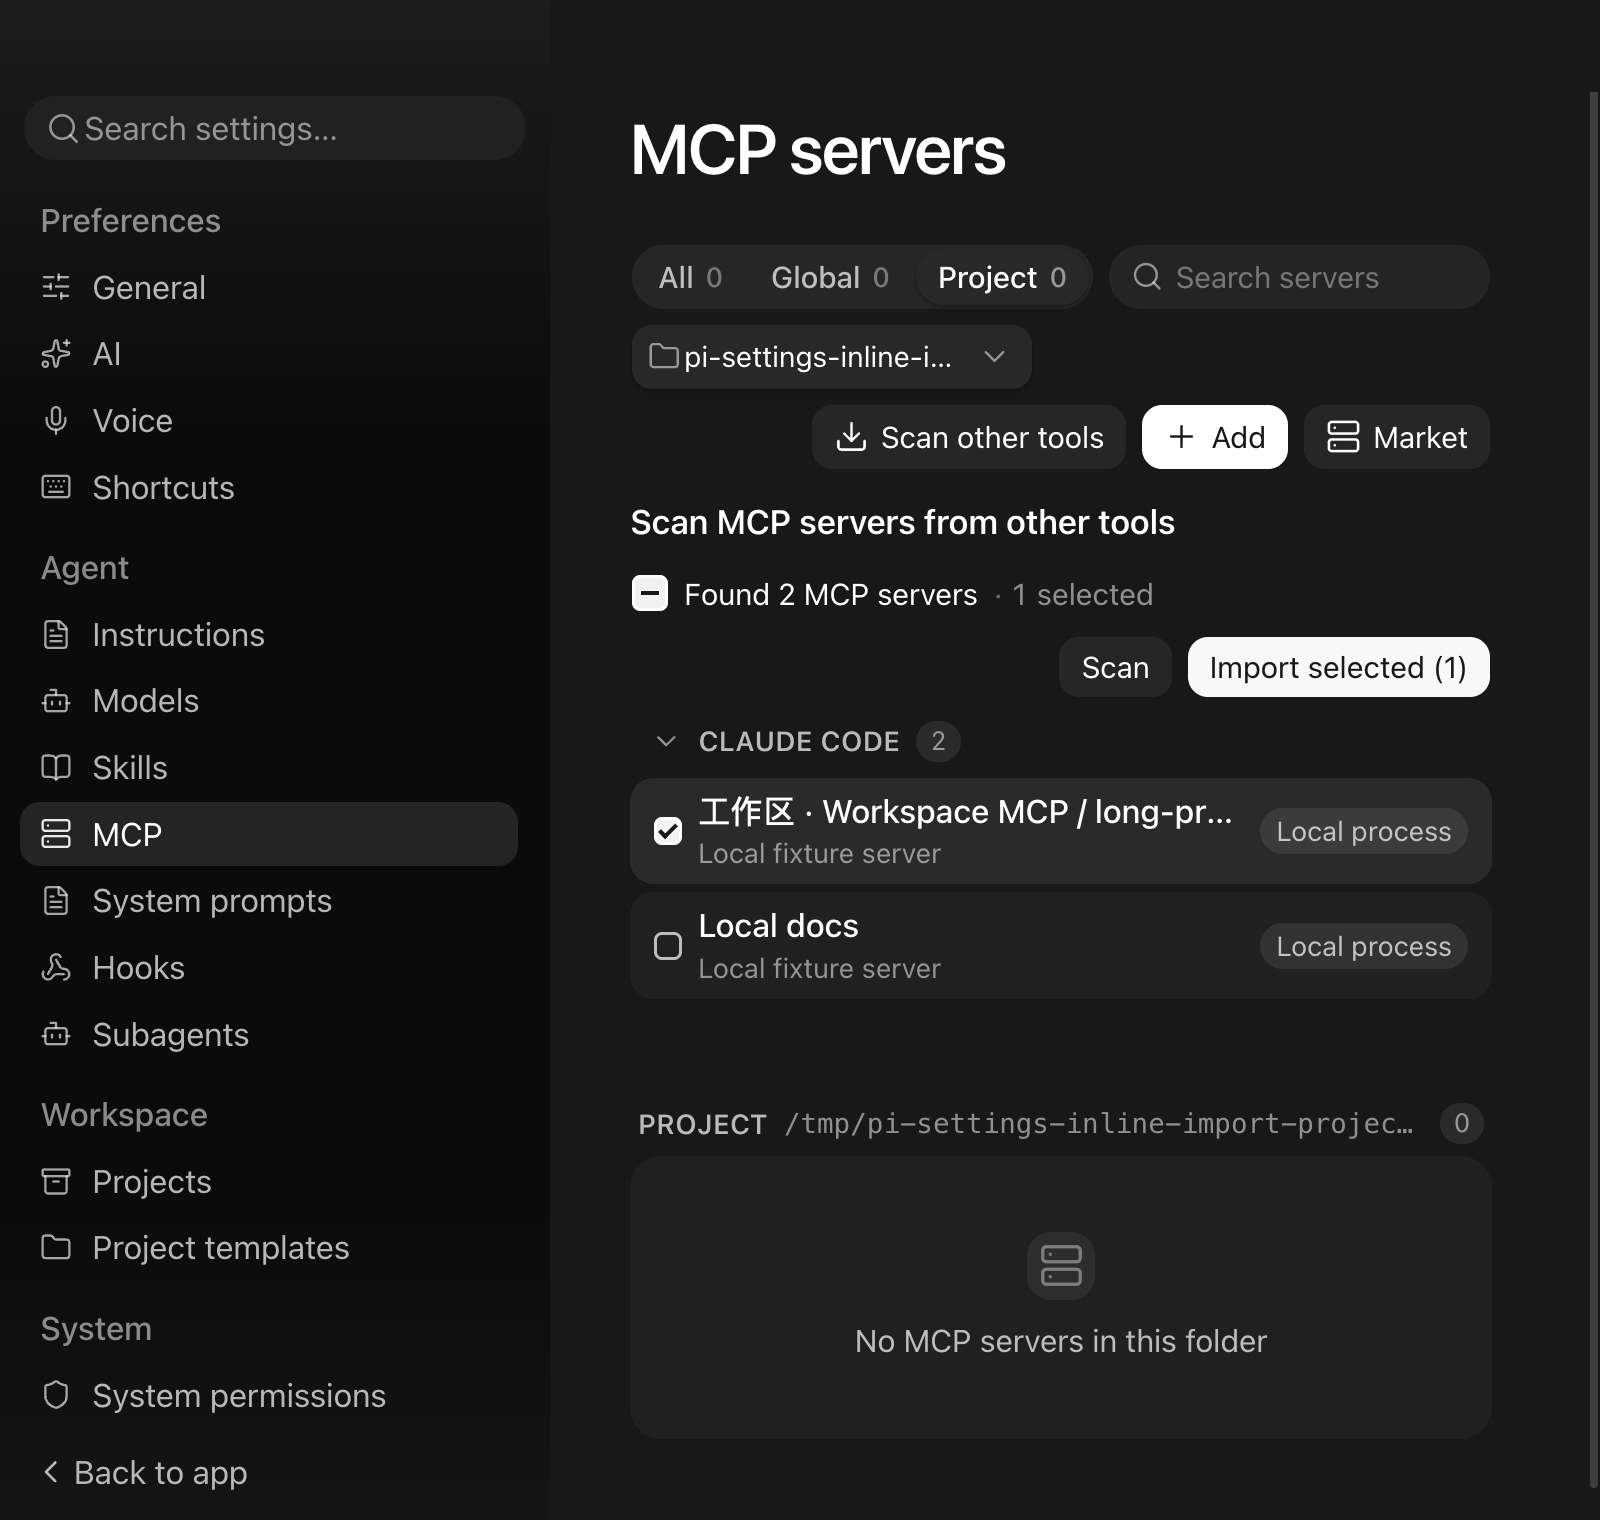
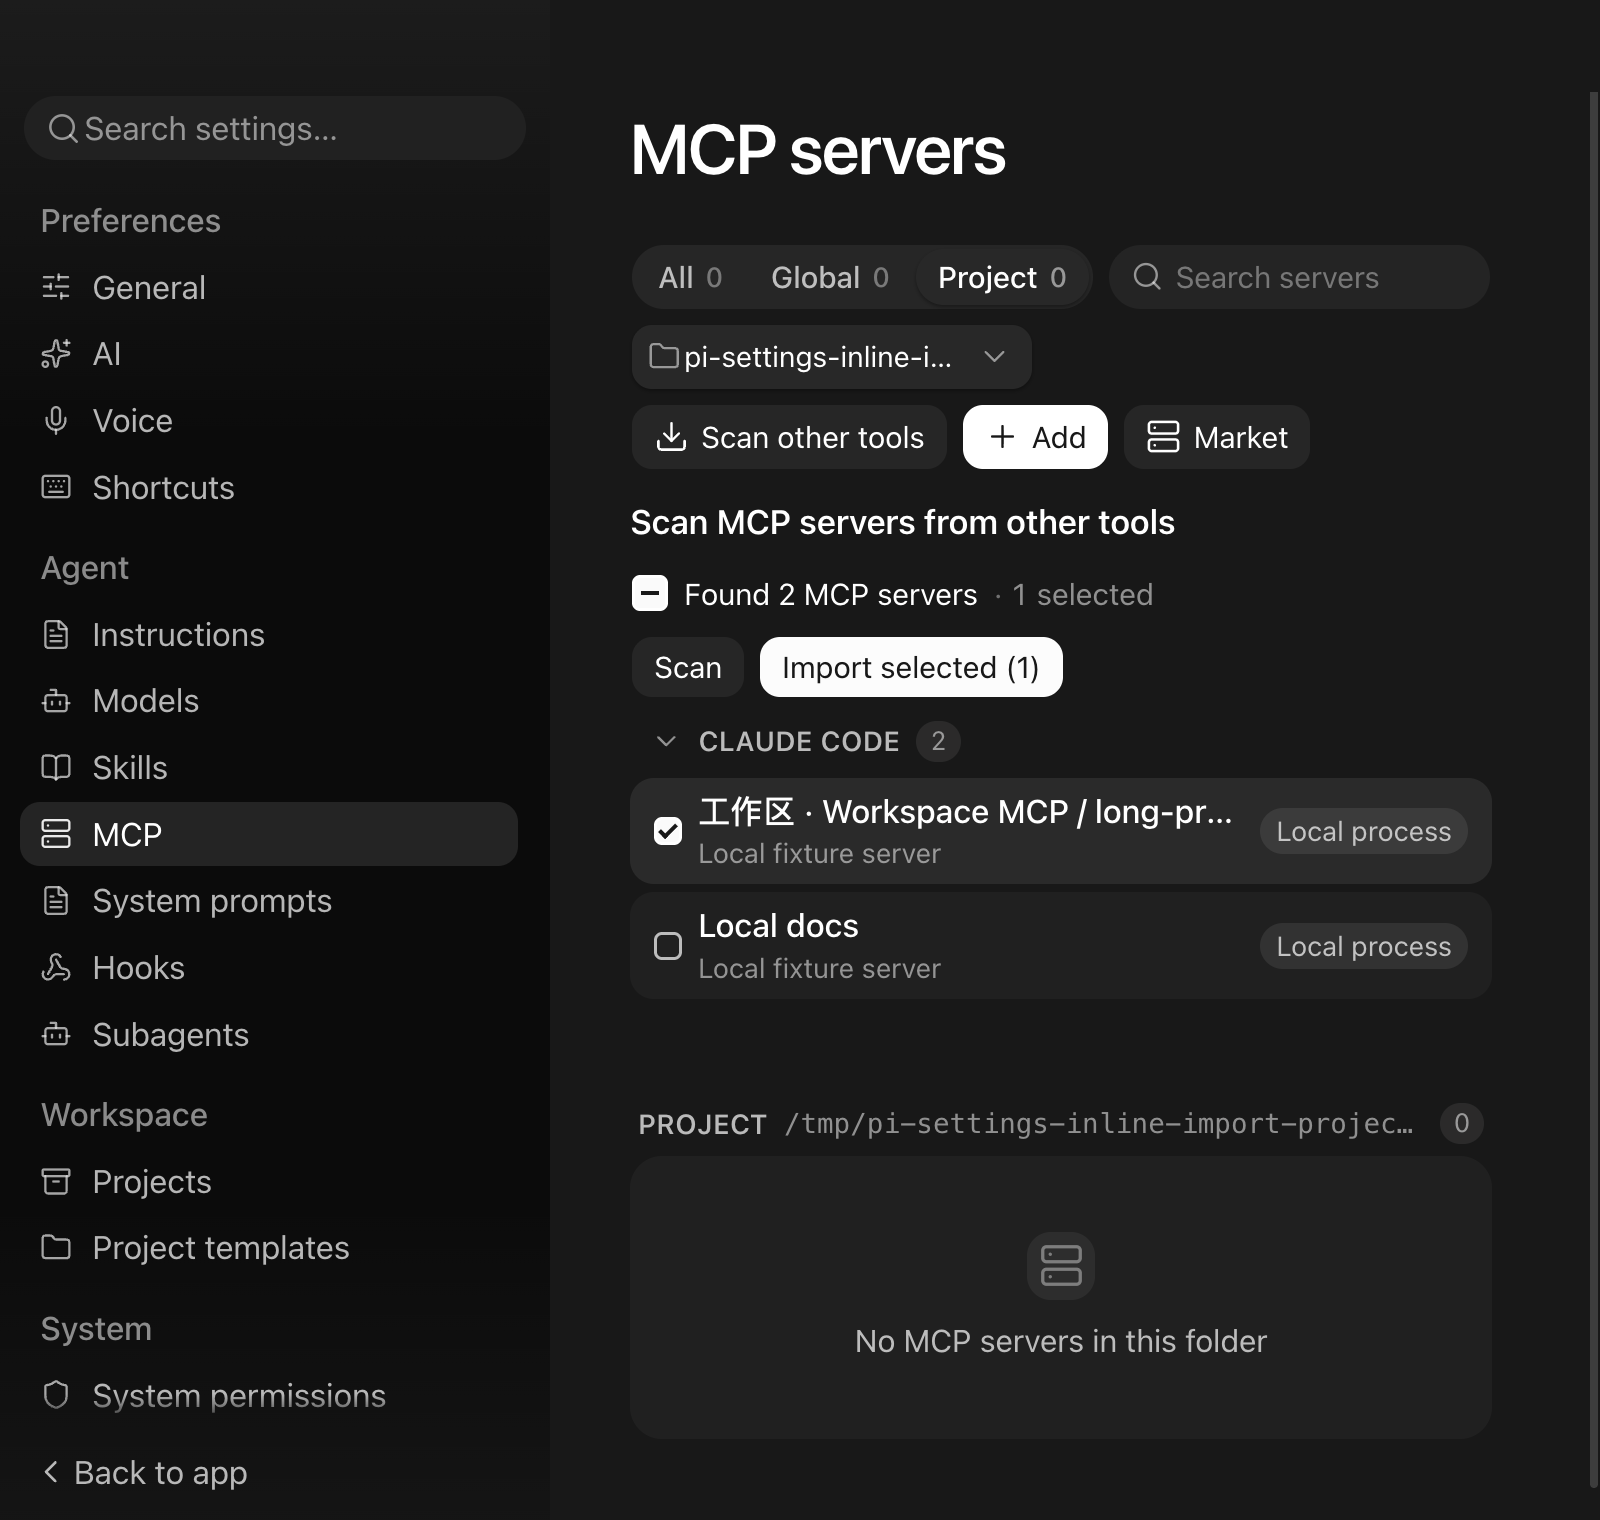
fix(desktop): align wrapped settings actions and preserve modifier keys
Use the available panel width to align wrapped toolbar actions. Leave room for the last navigation item to scroll above the fade and exercise keyboard selection at both screenshot sizes.

Changed region(s): [[0.4688, 0.402, 0.9375, 0.4638], [0.4062, 0.2474, 0.9062, 0.3092], [0.4062, 0.4329, 0.4375, 0.4638]]

diff --git a/apps/desktop/src/styles/settings.css b/apps/desktop/src/styles/settings.css
@@ -229,6 +229,14 @@
   flex: 1;
   overflow: auto;
   padding: 14px 10px 24px;
+  scroll-padding-block-end: var(--ds-space-16);
+  mask-image: linear-gradient(to bottom, black calc(100% - var(--ds-space-16)), transparent);
+}
+
+@media (forced-colors: active) {
+  .settings-nav-scroll {
+    mask-image: none;
+  }
 }
 
 .settings-nav-group {
@@ -2158,6 +2166,7 @@
  */
 
 .agent-capability-page {
+  container: capability-page / inline-size;
   display: flex;
   min-width: 0;
   flex-direction: column;
@@ -2348,6 +2357,14 @@
   align-items: center;
   gap: 8px;
   margin-left: auto;
+}
+
+@container capability-page (max-width: 32rem) {
+  .agent-capability-toolbar .agent-capability-toolbar-actions,
+  .import-toolbar .import-toolbar-actions {
+    flex-wrap: wrap;
+    margin-left: 0;
+  }
 }
 
 /*

diff --git a/apps/desktop/src/components/ui.tsx b/apps/desktop/src/components/ui.tsx
@@ -725,7 +725,7 @@ export function SegmentedControl<T extends string>({
   const itemRole = role === "tablist" ? "tab" : role === "radiogroup" ? "radio" : undefined;
   const tabStop = Math.max(0, options.findIndex((option) => option.value === value));
   function moveFocus(event: ReactKeyboardEvent<HTMLButtonElement>, index: number) {
-    if (!itemRole || event.altKey || event.ctrlKey || event.metaKey) return;
+    if (!itemRole || event.altKey || event.ctrlKey || event.metaKey || event.shiftKey) return;
     let next: number;
     switch (event.key) {
       case "Home": next = 0; break;

diff --git a/apps/desktop/src/components/ChatTranscript.tsx b/apps/desktop/src/components/ChatTranscript.tsx
@@ -1,1 +1,1 @@
-export { ChatTranscript } from "../features/chat/transcript";
+export { ChatTranscript } from "../features/chat/transcript";
